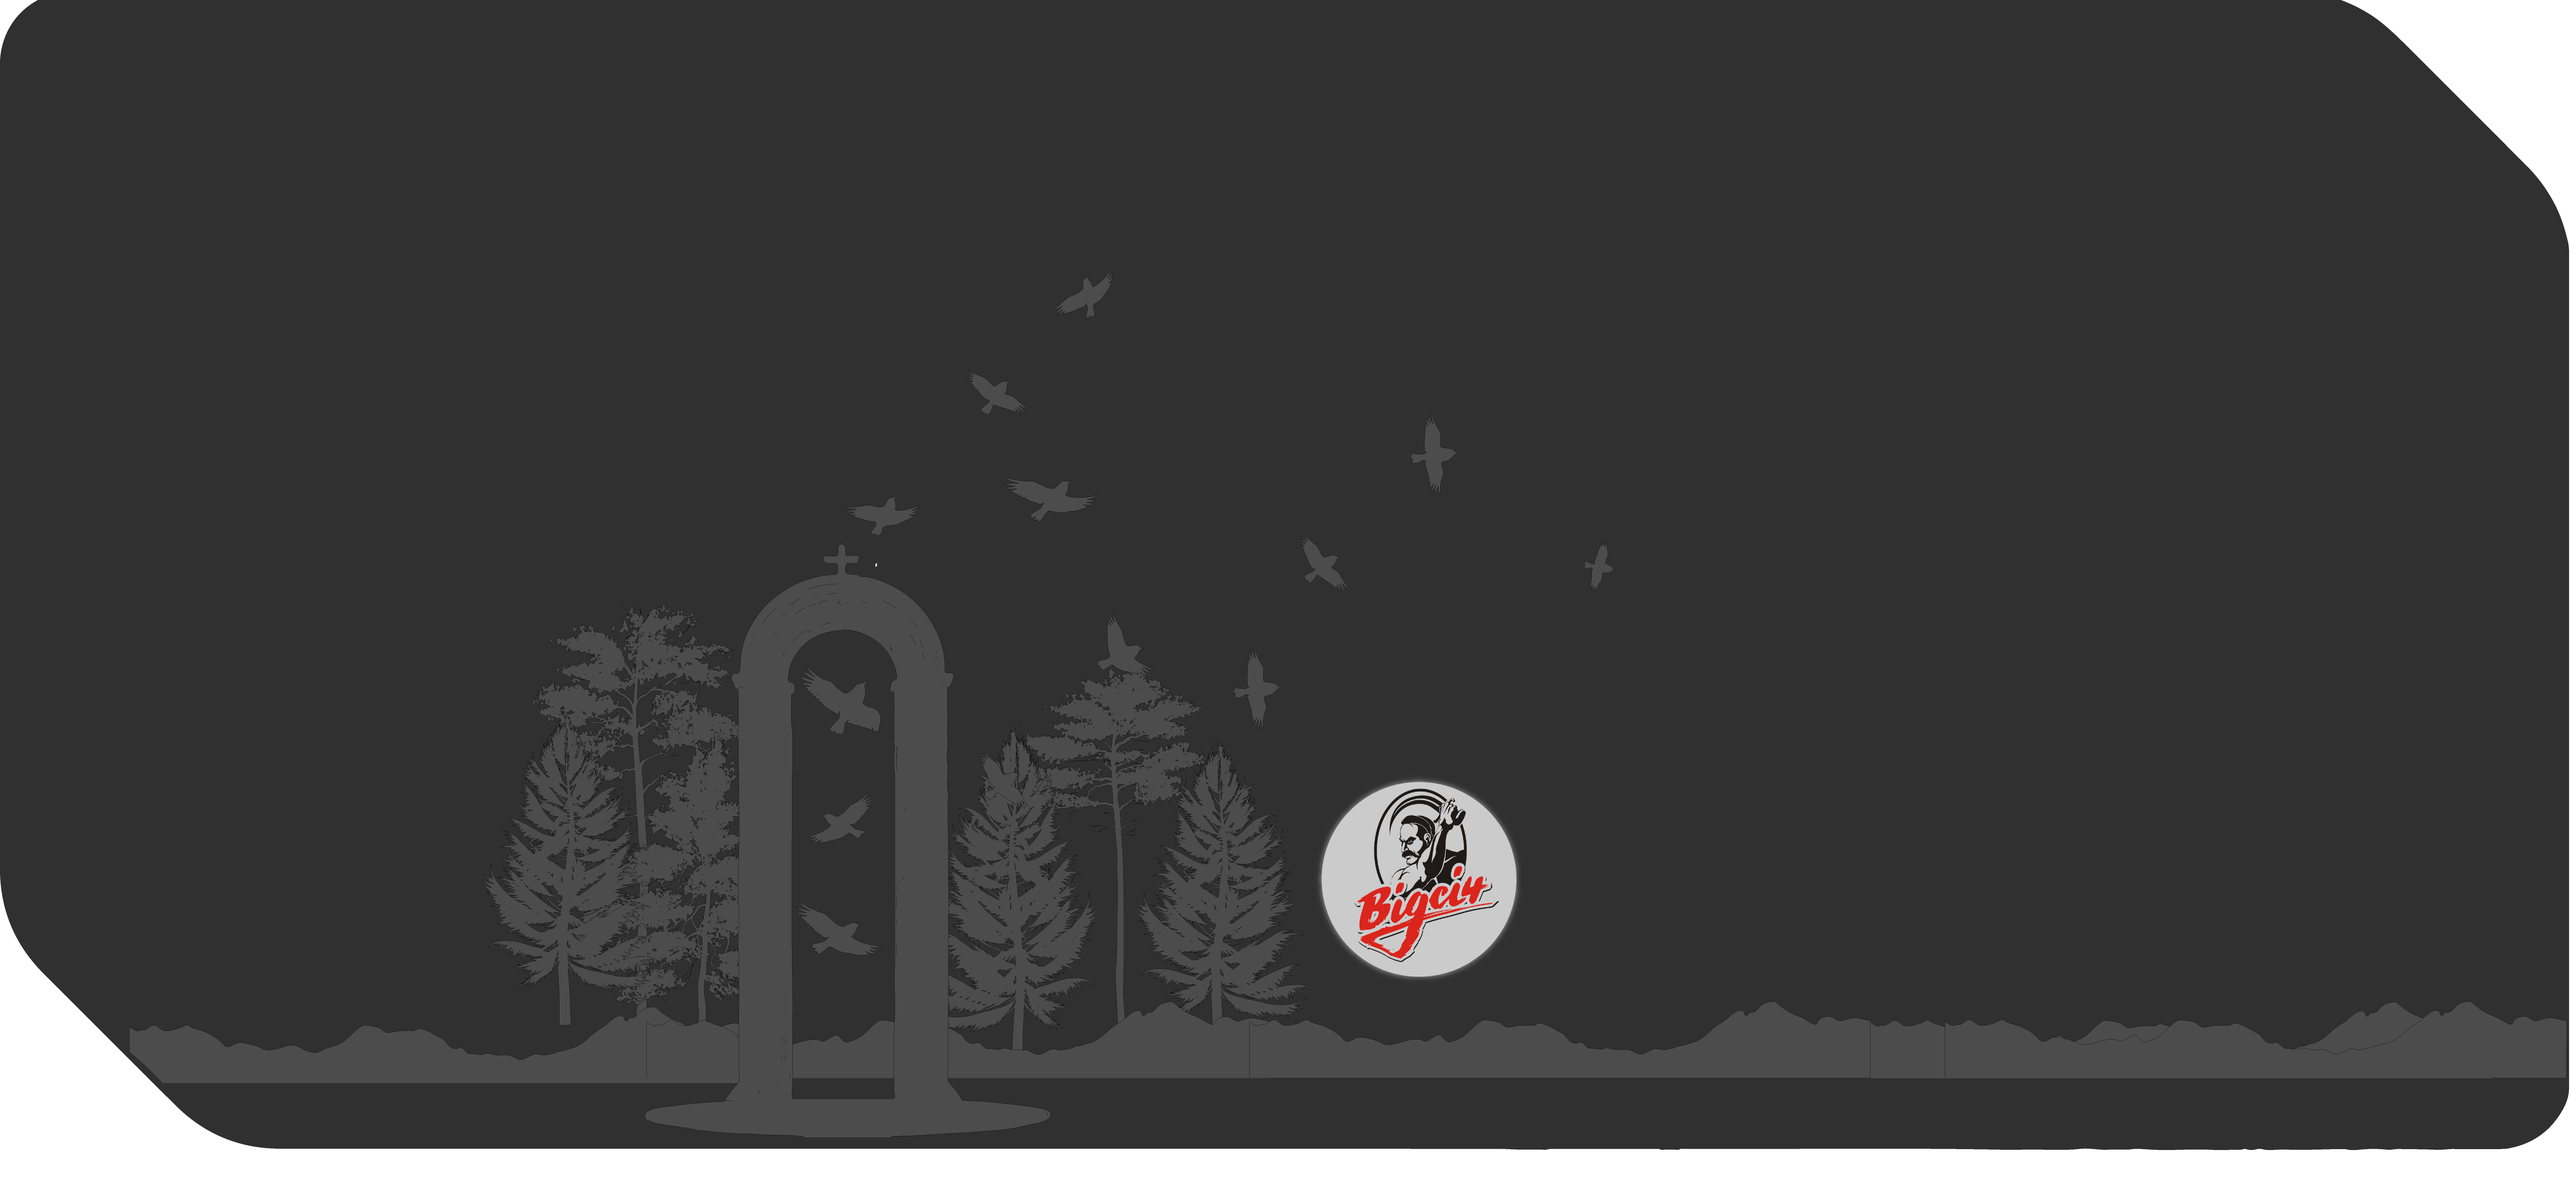
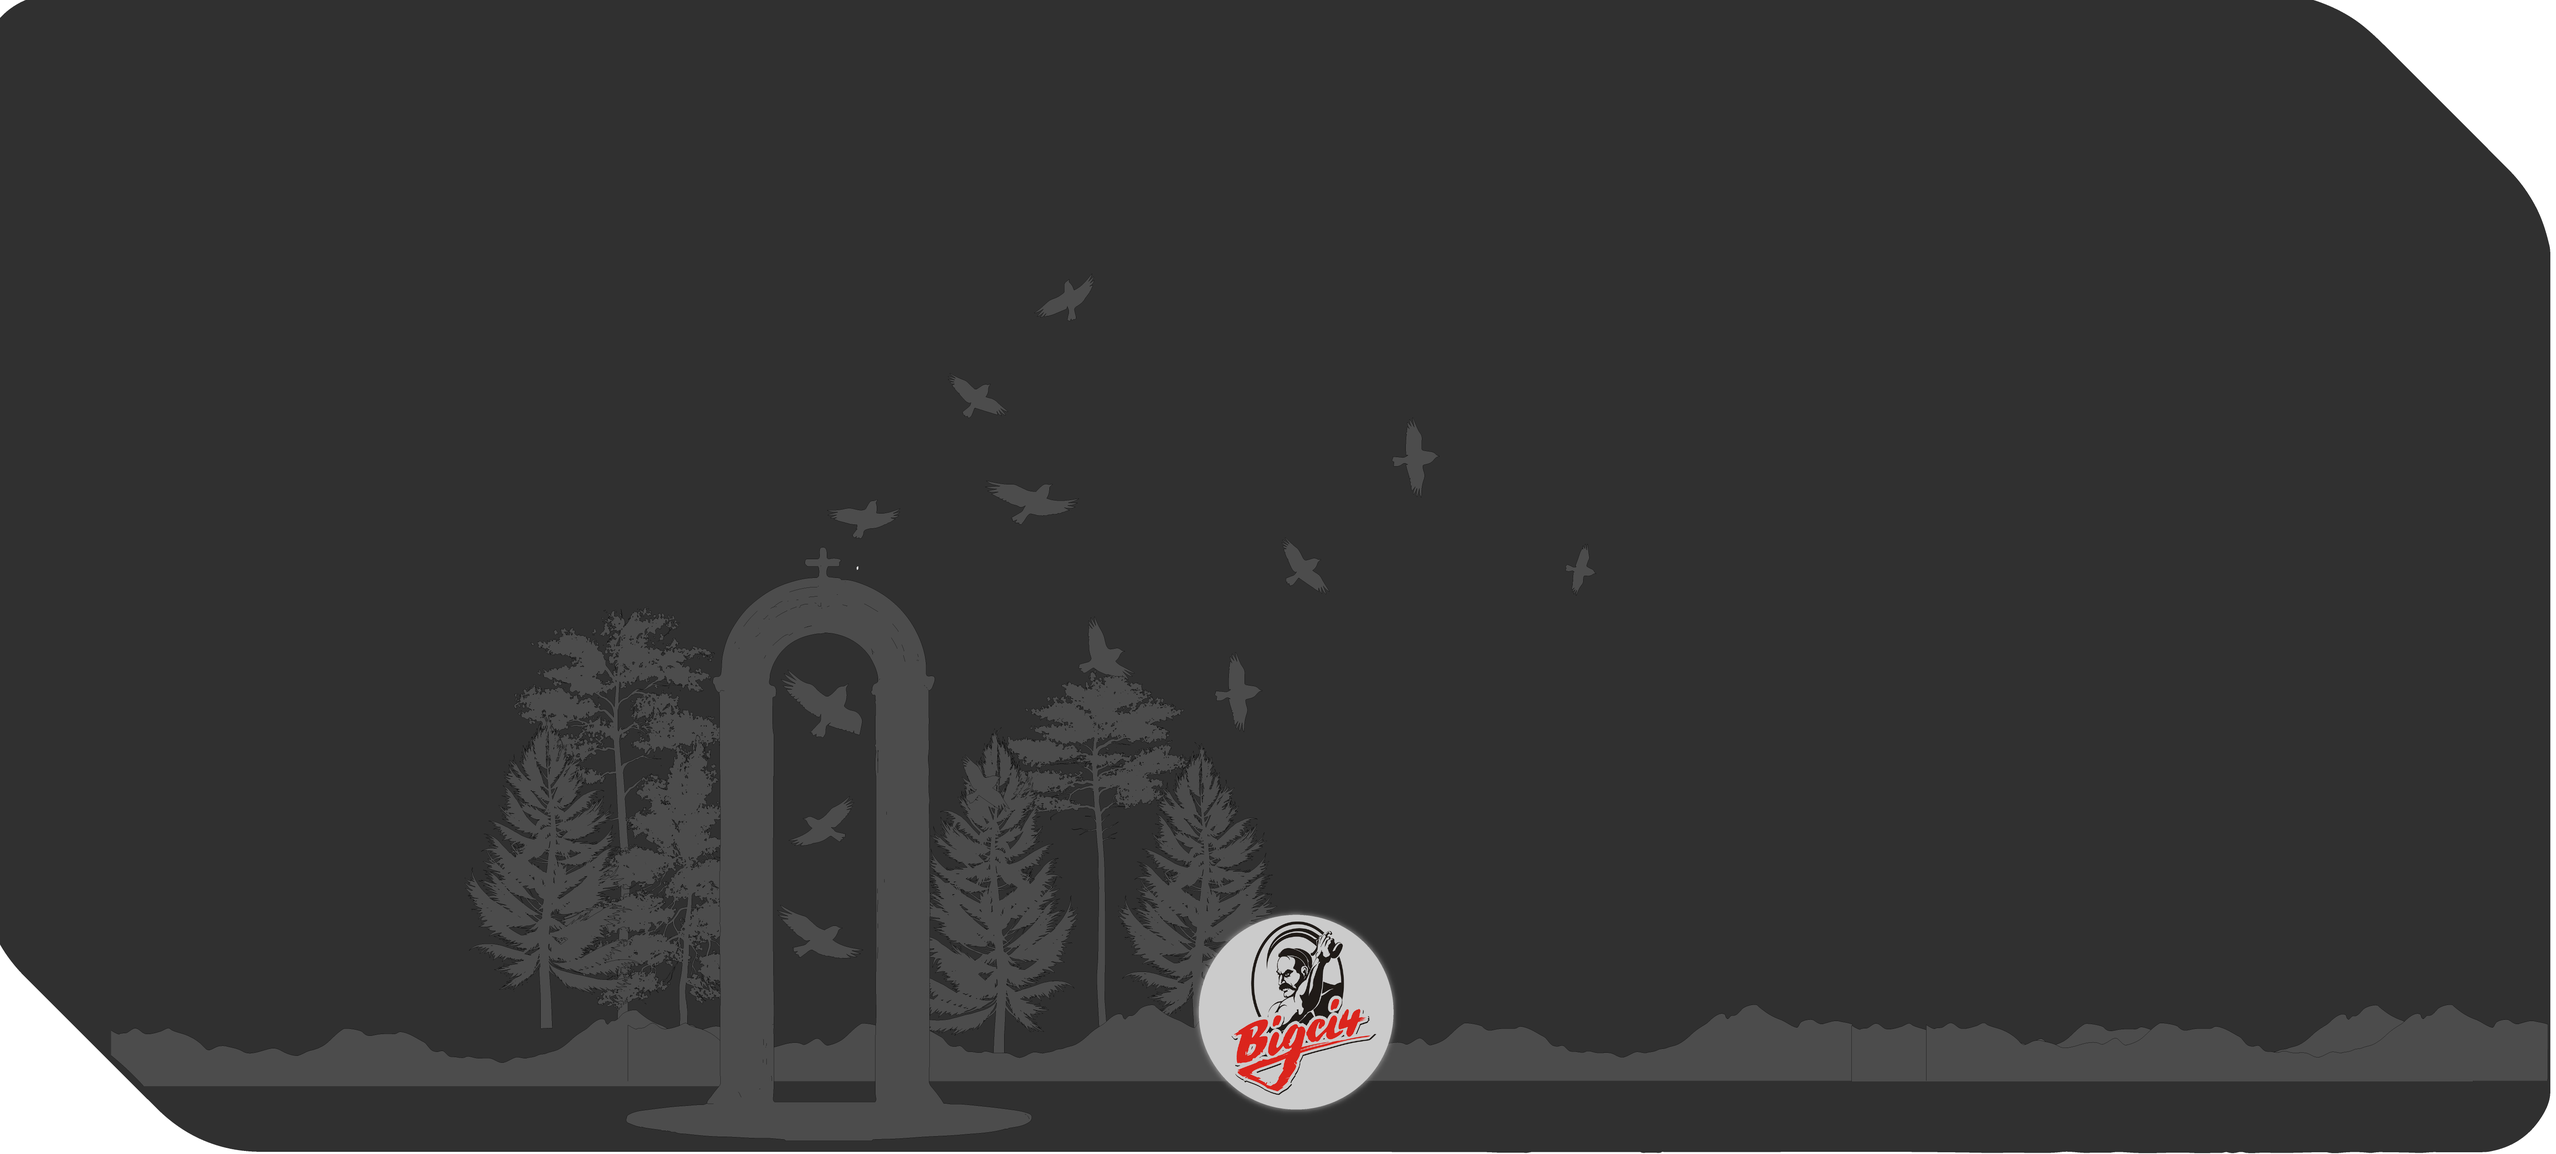
change mobile config

diff --git a/index.html b/index.html
@@ -329,25 +329,22 @@
         <img
           src="img/png/birds-1.png"
           alt="Птахи"
-          class="hidden lg:block absolute bottom-0 left-1/2 transform -translate-x-[55%] w-[1200px] max-w-none opacity-100 pointer-events-none z-10"
+          class="hidden max-[1024px]:hidden block absolute bottom-0 left-1/2 transform -translate-x-[55%] w-[1200px] opacity-100 pointer-events-none z-10"
         />
-
-        <!-- Мобильные: птицы -->
         <img
           src="img/png/birds-mobile-1.png"
           alt="Птахи мобільна версія"
-          class="block lg:hidden absolute bottom-0 left-1/2 transform -translate-x-1/2 w-full max-w-[500px] opacity-100 pointer-events-none z-10"
+          class="block max-[1024px]:block hidden absolute bottom-0 left-1/2 transform -translate-x-1/2 w-full max-w-[450px] opacity-100 pointer-events-none z-10"
         />
-
-        <!-- Фон под анимацию -->
         <div class="absolute inset-0 z-0 animate-bg-scrolling bg-pattern"></div>
 
-        <!-- Контент поверх -->
+        <!-- Контейнер с контентом и birds.png -->
+
         <div
-          class="relative z-10 max-w-screen-xl mx-auto px-4 flex flex-col lg:flex-row items-center justify-between"
+          class="relative z-10 w-full max-w-screen-xl mx-auto px-4 flex flex-col lg:flex-row items-center justify-between"
         >
-          <!-- Текст -->
-          <div class="w-full lg:w-1/2 text-left">
+          <!-- Левый блок с текстом -->
+          <div class="lg:w-1/2 w-full max-w-[450px] text-left">
             <h1
               class="text-4xl lg:text-6xl text-gray-200 font-gilroy-extrabold mb-6"
             >
@@ -359,7 +356,7 @@
               ВІДСІЧ
             </h1>
             <p
-              class="text-xl lg:text-2xl max-w-xl mb-8 font-gilroy-regular text-gray-300"
+              class="text-xl lg:text-2xl max-w-2xl mb-8 font-gilroy-regular text-gray-300"
             >
               Об'єднуємо зусилля для захисту прав людини, демократичних
               цінностей та протидії пропаганді
@@ -445,11 +442,11 @@
           </div>
 
           <!-- Правый блок с баннером -->
-          <div class="w-full lg:w-1/2 mt-10 lg:mt-0 flex justify-center">
+          <div class="lg:w-1/2 mt-10 lg:mt-0 flex justify-center">
             <img
               src="img/png/banner-Cossack.png"
               alt="Козак"
-              class="w-[260px] sm:w-[300px] md:w-[350px] lg:w-[500px] h-auto object-contain"
+              class="w-[300px] lg:w-[400px] lg:w-[500px] h-auto object-contain"
             />
           </div>
         </div>
